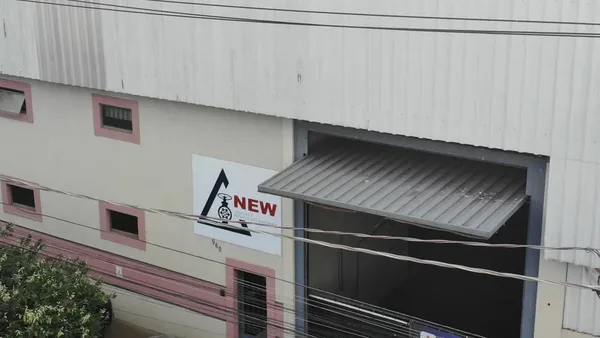
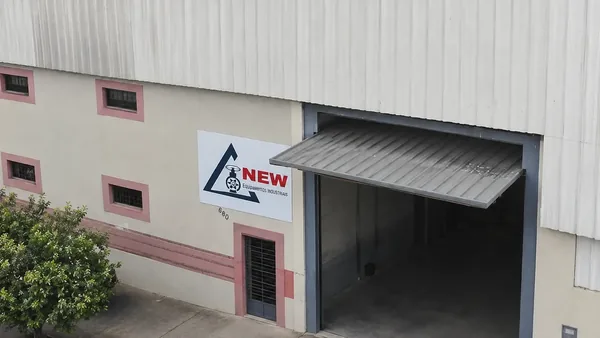
feat: foto nova da fachada em Quem somos
Foto aérea enviada pela NEW (logo e portão), em 1600 px, no lugar do recorte
antigo de 959 px. Original em _originais/img/catalogo/fachada-2.webp.

Claude-Session: https://claude.ai/code/session_01KQFR7pRbsb1EW2amwdweJP

diff --git a/index.html b/index.html
@@ -119,8 +119,8 @@
         <h2 class="intro-title">Quem somos</h2>
         <p class="intro-text reveal">A NEW nasceu em Sertãozinho, no coração do setor sucroenergético, com uma equipe que soma 24 anos de experiência em válvulas industriais. Fabricamos, fornecemos, automatizamos e recuperamos válvulas para usinas, estações de tratamento, mineradoras, papel e celulose e petroquímica, com responsabilidade técnica registrada no CREA-SP.</p>
         <picture class="intro-photo reveal">
-          <source srcset="img/opt/fachada-600.webp 600w, img/opt/fachada.webp 959w" sizes="(max-width: 800px) 100vw, 40vw" type="image/webp" />
-          <img src="img/opt/fachada.jpg" alt="Fachada da sede da NEW na Rua Argentina Grillo Badia, em Sertãozinho" width="960" height="540" loading="lazy" />
+          <source srcset="img/opt/fachada-600.webp 600w, img/opt/fachada.webp 1600w" sizes="(max-width: 800px) 100vw, 40vw" type="image/webp" />
+          <img src="img/opt/fachada.jpg" alt="Fachada do galpão da NEW em Sertãozinho, com o logotipo ao lado do portão" width="1600" height="902" loading="lazy" />
         </picture>
         <p class="intro-note reveal"><strong>Nossa missão:</strong> garantir confiabilidade e eficiência nas operações industriais, com válvulas de alta performance, suporte técnico ágil e atendimento transparente.</p>
       </div>

diff --git a/scripts/optimize_images.py b/scripts/optimize_images.py
@@ -29,7 +29,7 @@ PHOTOS = {
     "gaveta-galpao": ("sobre-galpao.jpg", None),
     "globo-volante": ("Foto_I.jpeg", None),
     "lote-gavetas": ("WhatsApp Image 2026-04-08 at 10.07.38.jpeg", None),
-    "fachada": ("catalogo/fachada.jpeg", (0.296, 0.298, 0.769, 0.772)),  # logo e portão, sem os carros
+    "fachada": ("catalogo/fachada-2.webp", None),  # foto aérea enviada pela NEW (logo e portão)
 }
 
 
